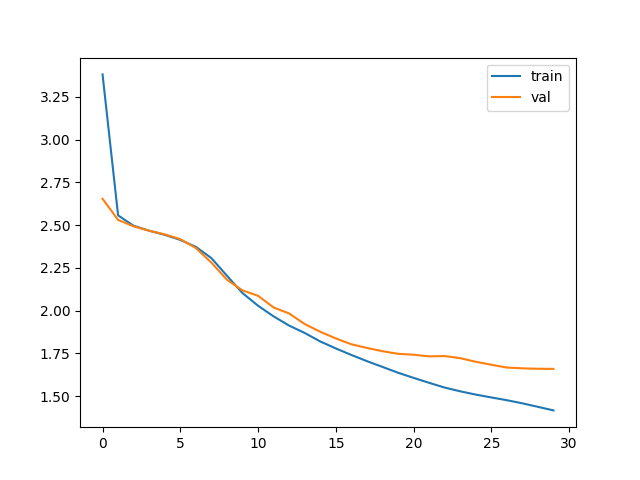
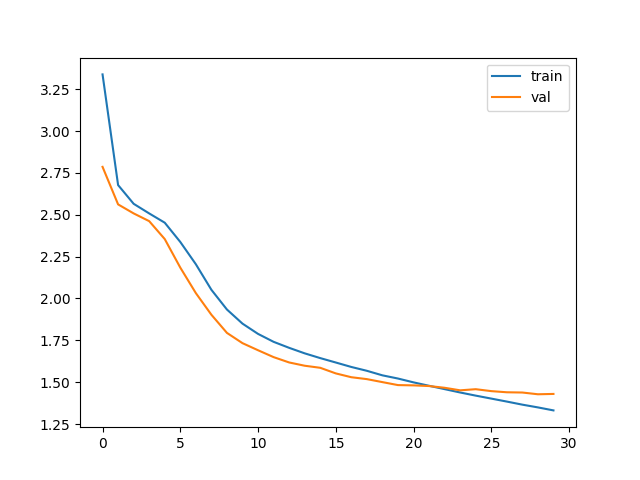
Add streaming inference

diff --git a/transformer/models.py b/transformer/models.py
@@ -4,7 +4,7 @@ from torch import nn
 import torch.nn.functional as F
 import numpy as np
 from tqdm import tqdm
-from utils import vocab_size
+from utils import get_dataloader, decode, vocab_size
 
 
 @dataclass
@@ -12,14 +12,14 @@ class Config:
     batch_size: int = 64
     num_layers: int = 6
     num_heads: int = 6
-    embedding_size: int = 384
+    embedding_size: int = 384 * 2
     hidden_size: int = 4 * embedding_size
     vocab_size: int = vocab_size
     block_size: int = 256
-    dropout: float = 0.2
+    dropout: float = 0.4
     device: str = "cuda"
     learning_rate: int = 1e-3
-    epochs: int = 40
+    epochs: int = 30
 
 
 class Head(nn.Module):
@@ -89,8 +89,15 @@ class Block(nn.Module):
         self.ln2 = nn.LayerNorm(config.embedding_size)
     
     def forward(self, x):
-        x = x + self.multi_headed_attention(self.ln1(x))
-        x = x + self.ffwd(self.ln2(x))
+        identity = x
+        x = self.ln1(x)
+        x = self.multi_headed_attention(x)
+        x = x + identity
+
+        identity = x
+        x = self.ln2(x)
+        x = self.ffwd(x)
+        x = x + identity
         return x
 
 class Transformer(nn.Module):
@@ -104,15 +111,20 @@ class Transformer(nn.Module):
             Block(config) 
             for _ in range(config.num_layers)
         ])
+        self.layer_norm = nn.LayerNorm(config.embedding_size)
         self.lm_head = nn.Linear(config.embedding_size, config.vocab_size)
 
     def forward(self, x):
         B, T = x.shape  # (batch_size, block_size)
 
         position_indexes = torch.arange(T, device=self.device)
-        x = self.pos_embeddings(position_indexes) + self.token_embeddings(x)
-        # x --> (batch_size, block_size, embedding_size)
+        pos_embeddings = self.pos_embeddings(position_indexes)
+        token_embeddings = self.token_embeddings(x) # NOTE: (B, T, C)
+
+        x = pos_embeddings + token_embeddings
         x = self.transformer_blocks(x)
+        x = self.layer_norm(x)
+
         logits = self.lm_head(x)
         return logits
 
@@ -124,43 +136,38 @@ class Transformer(nn.Module):
 
     def configure_optimizers(self):
         optimizer = torch.optim.Adam(self.parameters(), lr=self.config.learning_rate)
-        scheduler = torch.optim.lr_scheduler.CosineAnnealingLR(optimizer, self.config.epochs)
-        return optimizer, scheduler
+        return optimizer
 
-    def generate(self, idx, max_new_tokens=100):
+    def generate(self, idx, max_new_tokens=1000, stream=False):
         block_size = self.config.block_size
         # idx is (B, T) array of indices in the current context
+        # Code from Andrej Karpathy
         for _ in range(max_new_tokens):
-            # crop idx to the last block_size tokens
             idx_cond = idx[:, -block_size:]
-            # get the predictions
             logits = self(idx_cond)
-            # focus only on the last time step
             logits = logits[:, -1, :]  # becomes (B, C)
-            # apply softmax to get probabilities
             probs = F.softmax(logits, dim=-1)  # (B, C)
-            # sample from the distribution
             idx_next = torch.multinomial(probs, num_samples=1)  # (B, 1)
-            # append sampled index to the running sequence
+            if stream:
+                yield idx_next
             idx = torch.cat((idx, idx_next), dim=1)  # (B, T+1)
         return idx
+    
+    def save_checkpoint(self, path):
+        torch.save(self.state_dict(), path)
     
     @property
     def num_parameters(self):
         return sum(p.numel() for p in self.parameters())
 
-
-if __name__ == "__main__":
-    from utils import get_dataloader, decode, vocab_size
-
+def train():
     config = Config()
     config.vocab_size = vocab_size
-
     train, validation = get_dataloader(config)
 
     model = Transformer(config).to(config.device)
-    print(f"Number of parameters: {model.num_parameters}")
-    optim, scheduler = model.configure_optimizers()
+    print(f"Number of parameters: {model.num_parameters/1e6:.2f}M")
+    optim = model.configure_optimizers()
 
     train_losses_all = []
     val_losses_all = []
@@ -178,7 +185,6 @@ if __name__ == "__main__":
                 optim.zero_grad()
                 loss.backward()
                 optim.step()
-                
 
                 losses.append(loss.item())
             print(f"Epoch - {epoch}: Loss: {np.mean(losses)}")
@@ -186,12 +192,14 @@ if __name__ == "__main__":
 
         val_losses = []
         with torch.no_grad():
+            model.eval()
             for x, y in validation:
                 x = x.to(config.device)
                 y = y.to(config.device)
                 logits = model(x)
                 loss = model.loss_function(logits, y)
                 val_losses.append(loss.item())
+            model.train()
 
         print(f"Epoch - {epoch}: Val Loss: {np.mean(val_losses)}")
         val_losses_all.append(np.mean(val_losses))
@@ -207,3 +215,10 @@ if __name__ == "__main__":
     starting_context = torch.zeros((1, 1), dtype=torch.long, device=config.device)
     tokens = model.generate(starting_context, max_new_tokens=1000)[0]
     print(decode(tokens))
+
+    model.save_checkpoint("model.pt")
+
+if __name__ == "__main__":
+    train()
+
+

diff --git a/transformer/inference.py b/transformer/inference.py
@@ -1,0 +1,17 @@
+import torch
+from utils import get_dataloader, decode
+from models import Config, Transformer
+
+
+config = Config()
+model = Transformer(config).to(config.device)
+model.eval()
+
+# load the model from the checkpoint:
+model.load_state_dict(torch.load("model.pt"))
+print("Loaded model from checkpoint")
+
+ctx = torch.zeros((1, 1), dtype=torch.long, device=config.device)
+
+for token in model.generate(ctx, max_new_tokens=10000, stream=True):
+    print(decode(token[0]), end="", flush=True)

diff --git a/transformer/utils.py b/transformer/utils.py
@@ -18,10 +18,8 @@ idx_to_str = {i: s for s, i in str_to_idx.items()}
 def encode(text):
     return torch.tensor([str_to_idx[s] for s in text], dtype=torch.long)
 
-
 def decode(encoded):
     return "".join(idx_to_str[i] for i in encoded.tolist())
-
 
 def build_dataset(text, block_size):
     data = encode(text)
